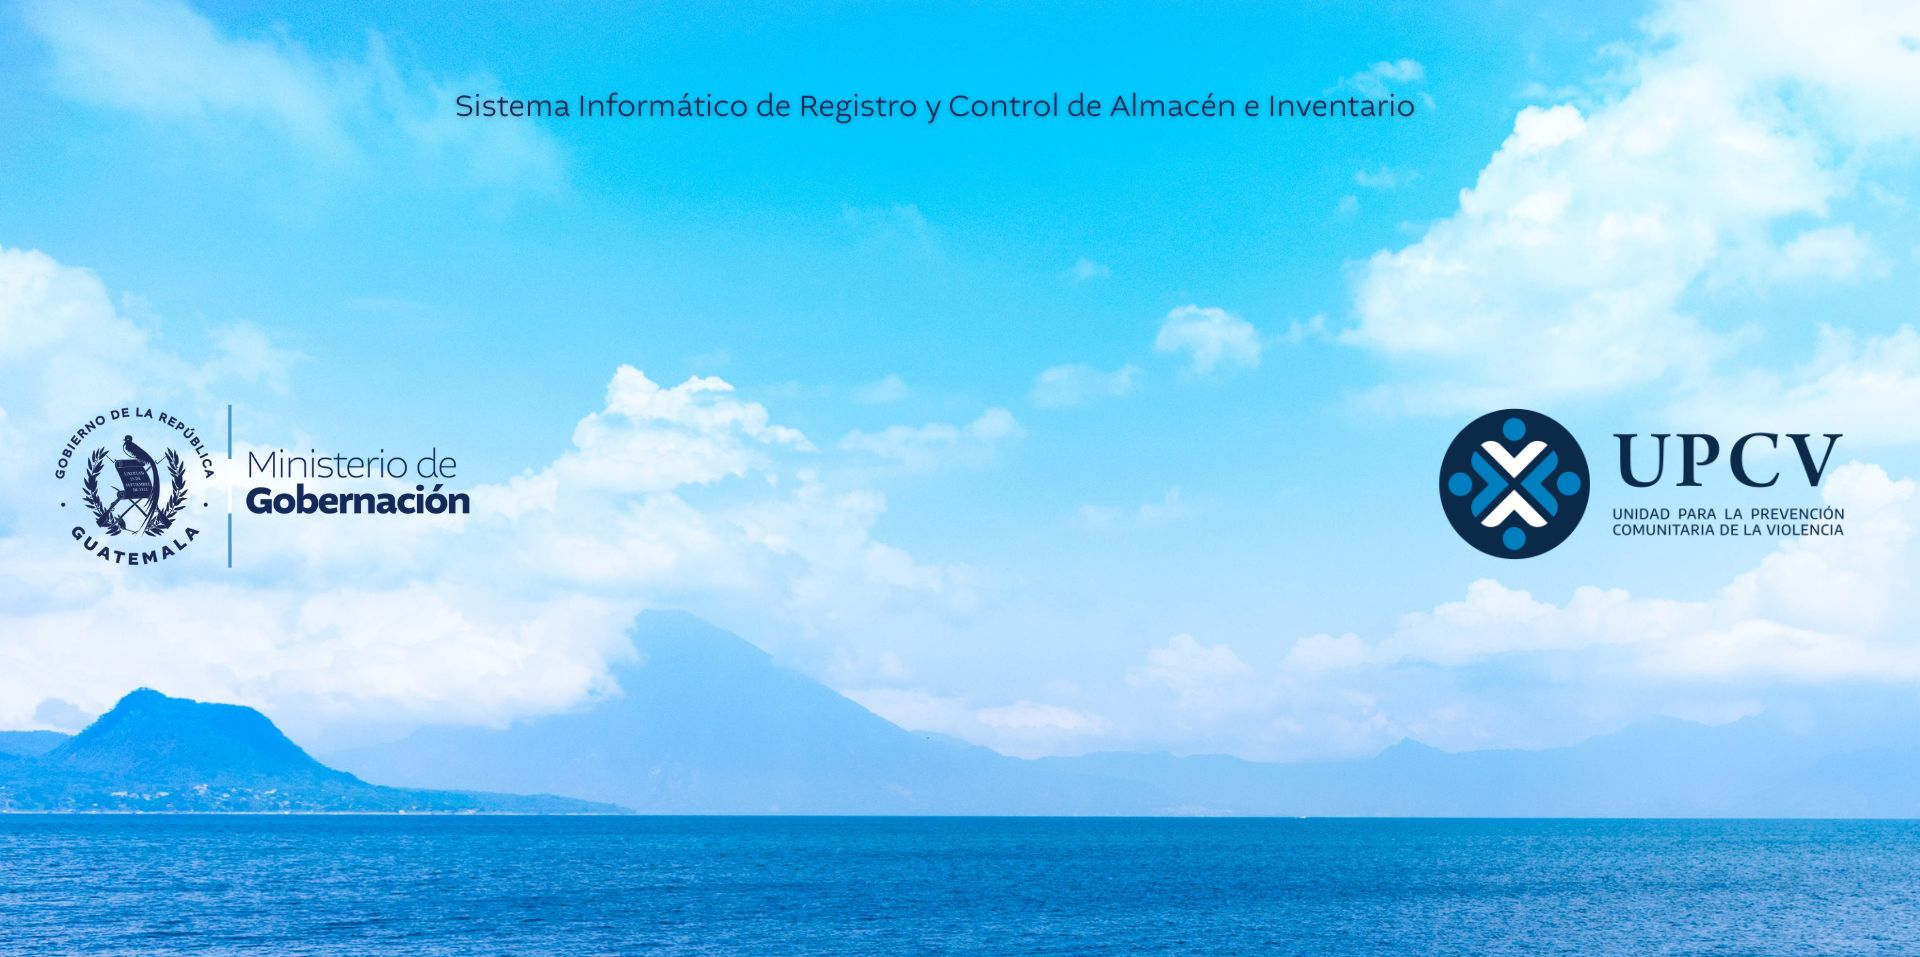
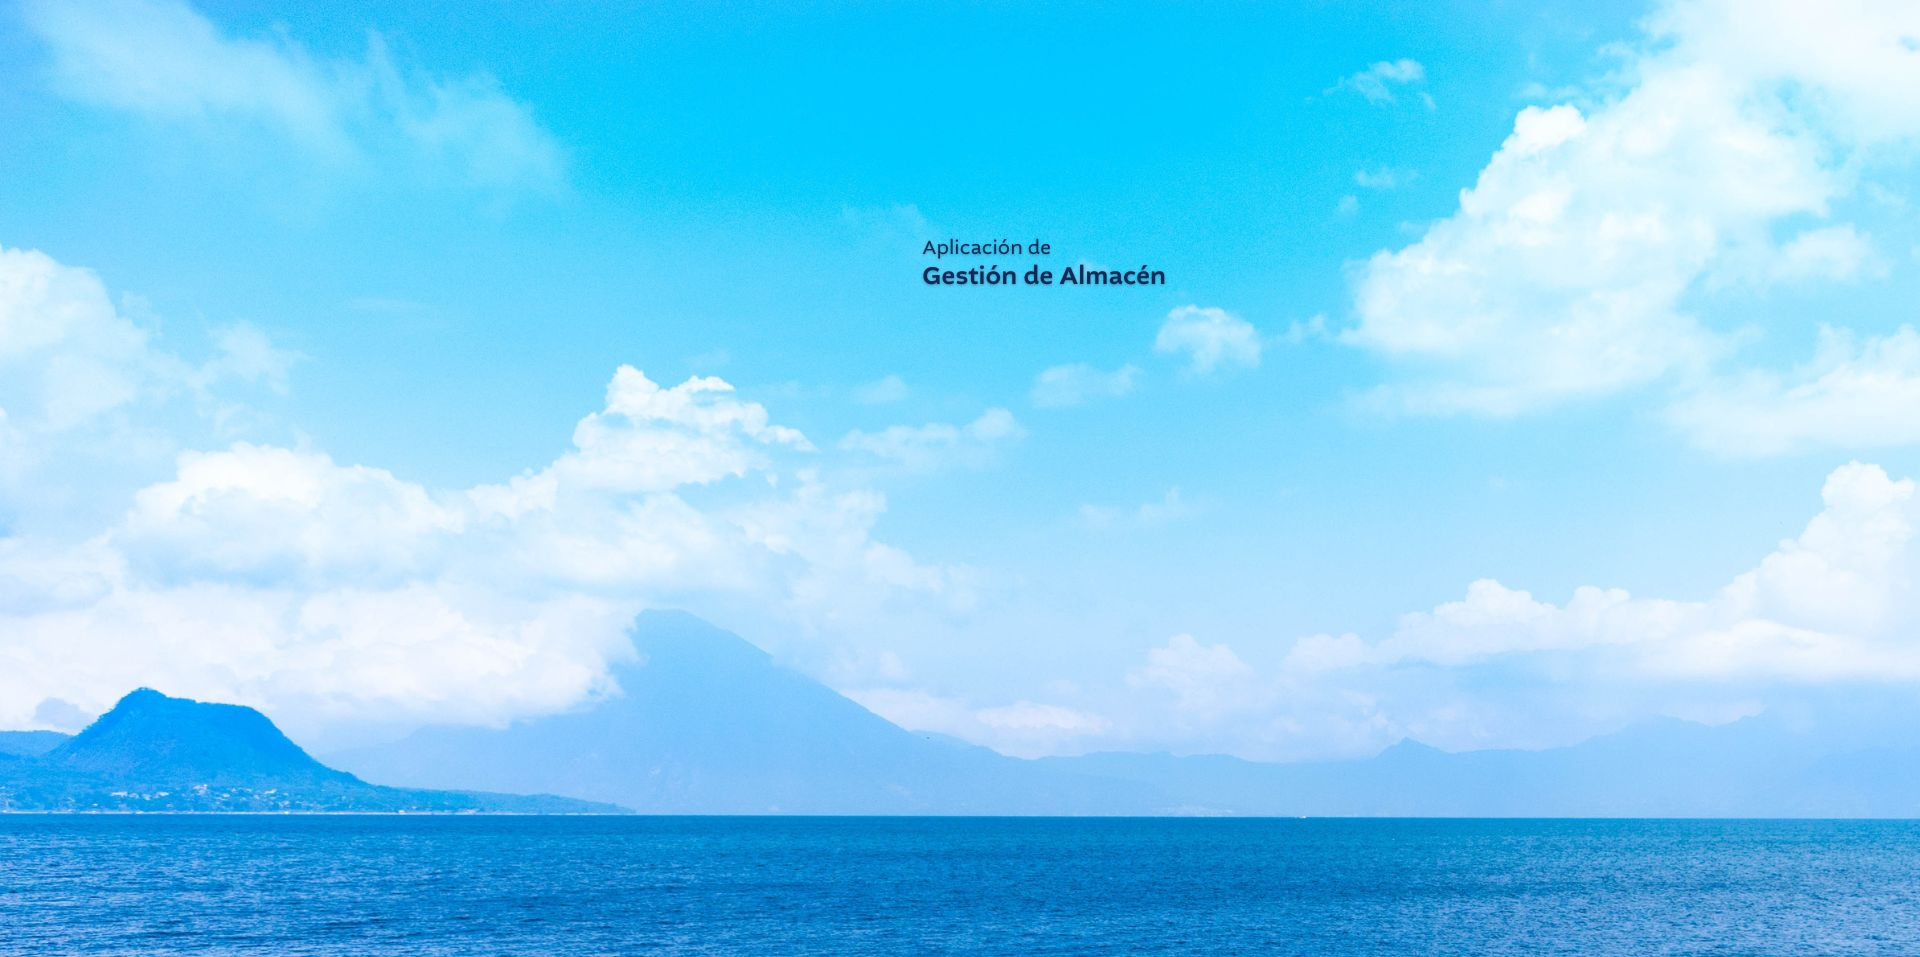
Codigo en servidor

diff --git a/upcv_app/almacen_app/templates/almacen/pdf_requerimiento.html b/upcv_app/almacen_app/templates/almacen/pdf_requerimiento.html
@@ -296,7 +296,7 @@
 </div>
 
 
-{% comment %} 
+ 
 <!-- Información de la institución abajo -->
 <div class="institucion-info" style="display: flex; justify-content: space-between; align-items: center; width: 100%; border-top: 5px solid transparent; padding: 0.5px; position: fixed; bottom: 0; background-color: white; padding-top: 10px;">
   
@@ -324,7 +324,7 @@
     <span style="font-size: 11px; font-weight: bold;">{{ institucion.direccion }}</span>
   </div>
   
-</div> {% endcomment %}
+</div> 
 
 
 

diff --git a/upcv_app/almacen_app/migrations/0045_kardex_numero_kardex.py b/upcv_app/almacen_app/migrations/0045_kardex_numero_kardex.py
@@ -13,6 +13,12 @@ class Migration(migrations.Migration):
         migrations.AddField(
             model_name='kardex',
             name='numero_kardex',
-            field=models.CharField(blank=True, editable=False, max_length=20, unique=True),
+            field=models.CharField(
+                max_length=20,
+                null=True,     # ✅ permite valores nulos en la base de datos
+                blank=True,    # ✅ permite que los formularios lo dejen vacío
+                editable=False,
+                unique=True
+            ),
         ),
     ]

diff --git a/upcv_app/upcv_app/settings.py b/upcv_app/upcv_app/settings.py
@@ -26,7 +26,8 @@ SECRET_KEY = 'django-insecure-av1$b$x&1_-3naz=js=74&=(s&5ph00m4t1_c&9190ar3cm%ok
 # SECURITY WARNING: don't run with debug turned on in production!
 DEBUG = True
 
-ALLOWED_HOSTS = ['192.168.93.114', 'localhost', '127.0.0.1', '181.174.112.19',]
+ALLOWED_HOSTS = ['192.168.93.114', 'localhost', '127.0.0.1', 'almacenapp.upcv.gob.gt' ]
+
 
 
 # Application definition